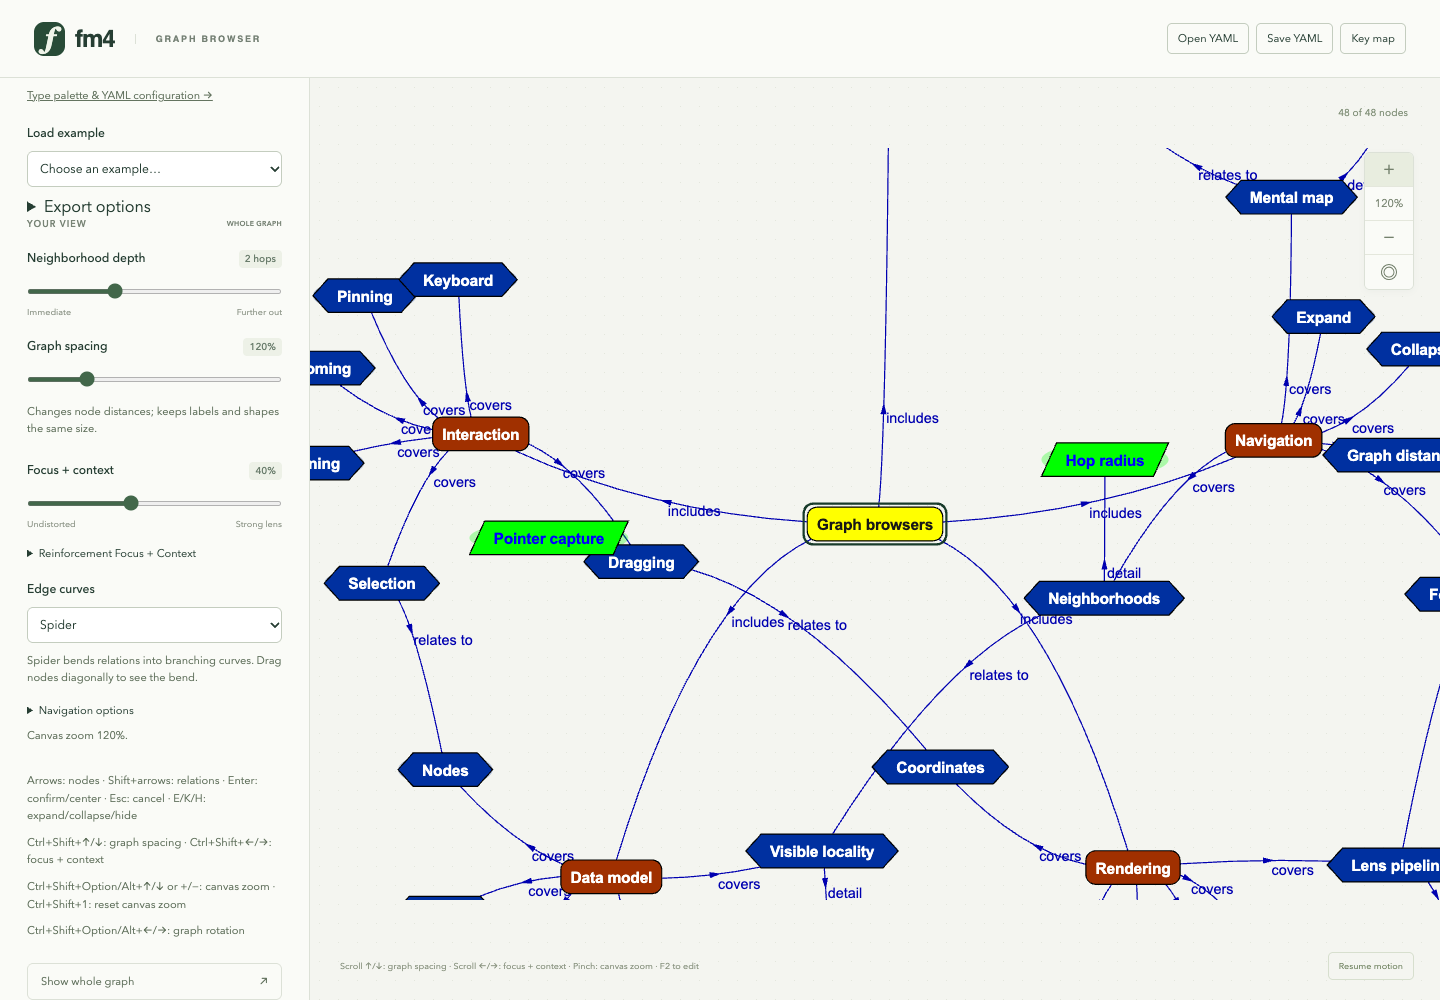
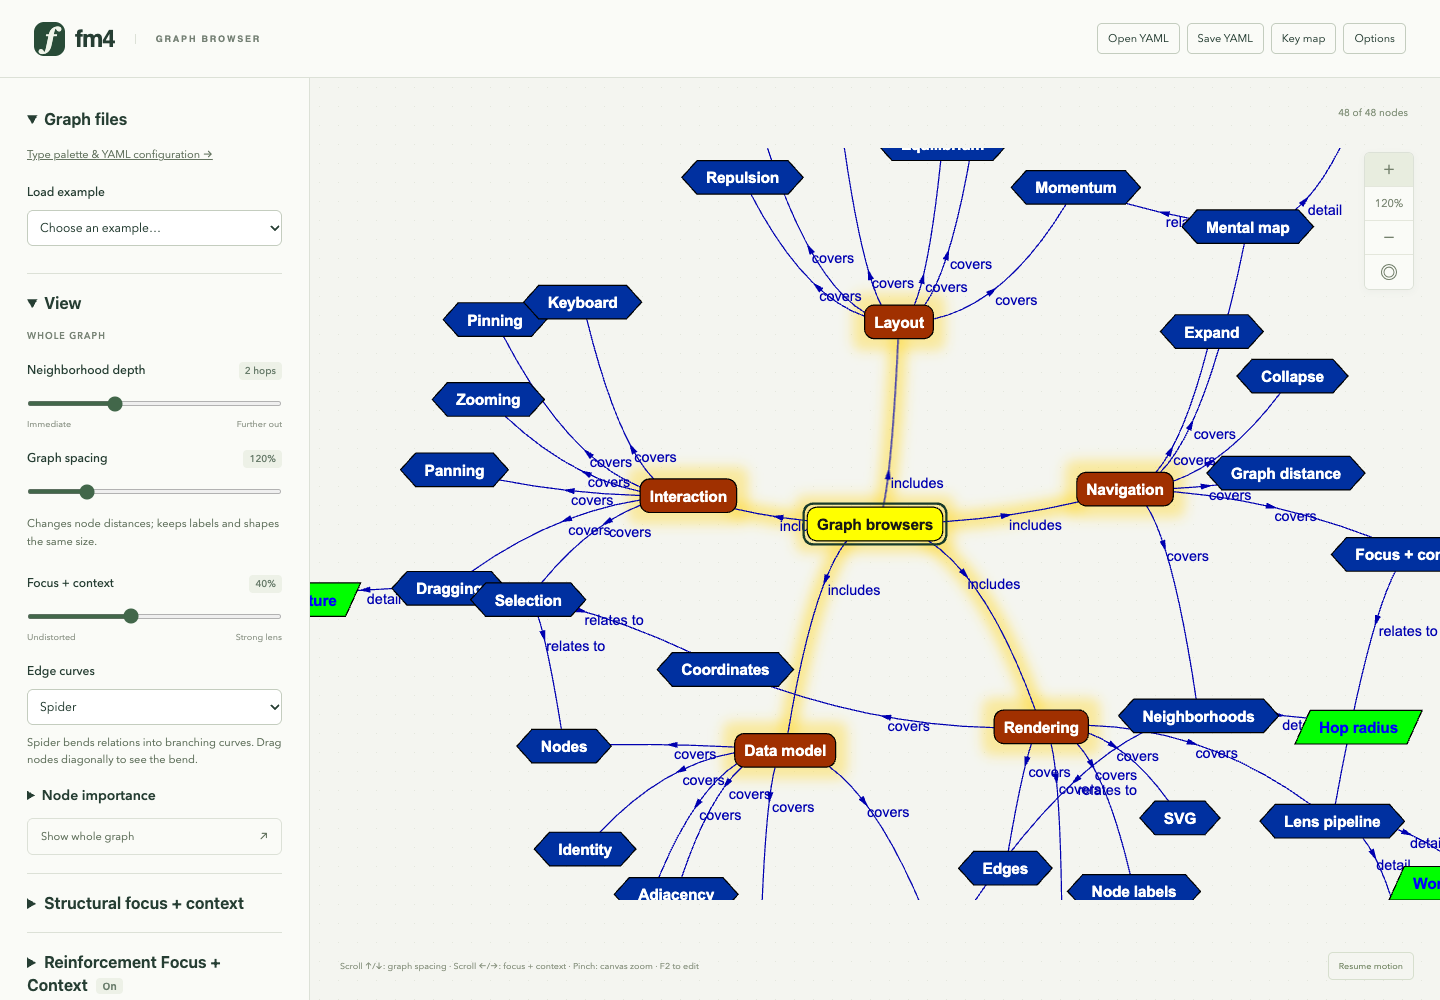
Refresh flipbook and document RFC origins

diff --git a/docs/flipbook/index.html b/docs/flipbook/index.html
@@ -2,7 +2,7 @@
 <html lang="en"><head><meta charset="utf-8"><meta name="viewport" content="width=device-width,initial-scale=1"><title>Freshmind 4 walkthrough</title>
 <style>body{font:16px/1.5 system-ui,sans-serif;margin:0;background:#f4f5f0;color:#263e33}header,main{max-width:1440px;margin:auto;padding:16px}h1{font-size:22px;margin:0}nav{display:flex;align-items:center;gap:12px;flex-wrap:wrap;margin-top:12px}button{font:inherit;padding:5px 14px;cursor:pointer}button:disabled{cursor:default}figure{margin:0 0 30px}figure[hidden]{display:none}img{display:block;max-width:100%;max-height:72vh;width:auto;height:auto;border:1px solid #c4cdbf}h2{font-size:18px}a{color:inherit}button:focus-visible,a:focus-visible{outline:3px solid #6cb08b;outline-offset:3px}</style></head>
 <body><header><h1>Freshmind 4 walkthrough</h1><nav aria-label="Flipbook navigation"><button id="previous" type="button">Previous</button><span id="position" role="status" aria-live="polite"></span><button id="next" type="button">Next</button><a href="README.md">Markdown walkthrough</a></nav></header><main>
-<figure id="browser"><h2>1. Graph browser</h2><img src="01-browser.png" width="1440" height="1000" alt="Graph browser"><figcaption><p>The main browser opens a local neighborhood. Select nodes to inspect their connections; dragging, pinning and neighborhood controls use the same graph model.</p></figcaption></figure>
+<figure id="browser"><h2>1. Graph browser with RFC on the center node</h2><img src="01-browser.png" width="1440" height="1000" alt="Graph browser with RFC on the center node"><figcaption><p>The graph-browser example opens with Reinforcement Focus+Context active on its central Graph browsers node. Yellow halos identify the reinforced center and its five immediate branches; the surrounding graph retains its ordinary connections and forces.</p></figcaption></figure>
 <figure id="neighborhood"><h2>2. Reveal the complete graph</h2><img src="02-neighborhood.png" width="1440" height="1000" alt="Reveal the complete graph"><figcaption><p>Show whole graph reveals stored nodes beyond the current neighborhood. Expansion, collapse and hiding change the visible graph while retaining the complete graph for editing and export.</p></figcaption></figure>
 <figure id="view-controls"><h2>3. Graph spacing, canvas zoom and viewing lens</h2><img src="03-view-controls.png" width="1440" height="1000" alt="Graph spacing, canvas zoom and viewing lens"><figcaption><p>Graph spacing changes node distances. Canvas zoom scales shapes, labels and strokes together. The focus + context slider applies the independent nonlinear viewing lens.</p></figcaption></figure>
 <figure id="key-map"><h2>4. User key map</h2><img src="04-key-map.png" width="1440" height="1000" alt="User key map"><figcaption><p>The help dialog and docs/KEYMAP.md share the same implemented command definitions, including graph spacing, canvas zoom, navigation, editing and file shortcuts.</p></figcaption></figure>
@@ -14,9 +14,15 @@
 <figure id="save-yaml"><h2>10. Save the complete graph as YAML</h2><img src="10-save-yaml.png" width="1440" height="1000" alt="Save the complete graph as YAML"><figcaption><p>Ctrl+Shift+S opens the filename dialog. Saving downloads the complete stored graph, including hidden nodes, with optional layout/view state and embedded or companion type configuration.</p></figcaption></figure>
 <figure id="rfc-baseline"><h2>11. Single-focus comparison: ordinary layout</h2><img src="11-rfc-baseline.png" width="1440" height="1000" alt="Single-focus comparison: ordinary layout"><figcaption><p>The synthetic crowded-star fixture uses a fixed center and fixed context anchors. This is the ordinary TouchGraph layout after 250 batches from the saved initial coordinates; RFC is off. Both comparison views use 200% graph spacing and 100% canvas zoom for readability.</p></figcaption></figure>
 <figure id="rfc-attraction"><h2>12. Single-focus comparison: attraction reinforcement</h2><img src="12-rfc-attraction.png" width="1440" height="1000" alt="Single-focus comparison: attraction reinforcement"><figcaption><p>Reload the identical graph, choose Attraction only and run 250 batches. This earlier preset combines attraction multiplier 3 with angular stiffness 300, without a target-length spring. Soft yellow halos identify the reinforced nodes and relations; semantic graph records remain unchanged.</p></figcaption></figure>
-<figure id="rfc"><h2>13. Single-focus comparison: length-constrained tree</h2><img src="13-rfc.png" width="1440" height="1000" alt="Single-focus comparison: length-constrained tree"><figcaption><p>The default Tree structure preset combines target focal length 120, radial stiffness 1 and angular stiffness 10000. From the same starting graph and after 250 batches, the focal star is more regular. Both stronger angular constraints and the new length spring contribute. RFC halos fade away without a rim; focal-region exclusion remains later work.</p></figcaption></figure>
+<figure id="rfc"><h2>13. Single-focus comparison: length-constrained tree</h2><img src="13-rfc.png" width="1440" height="1000" alt="Single-focus comparison: length-constrained tree"><figcaption><p>The default Tree structure preset combines target focal length 120, radial stiffness 1 and angular stiffness 10000. From the same starting graph and after 250 batches, the focal star is more regular. Both stronger angular constraints and the new length spring contribute. Yellow halos show reinforcement; optional focal-region exclusion is demonstrated separately below.</p></figcaption></figure>
 <figure id="rfc-weighted"><h2>14. Weighted RFC for horizontally extended labels</h2><img src="14-rfc-weighted.png" width="1440" height="1000" alt="Weighted RFC for horizontally extended labels"><figcaption><p>The wide-label fixture uses horizontal coordinate weight 0.25 and vertical weight 1. Equal angles are measured in weighted physical coordinates, permitting a wider focal layout while the viewing lens and both zooms stay independent. Ordinary context springs still compete with reinforcement; the metric alone does not guarantee clear space or eliminate label overlaps.</p></figcaption></figure>
-<figure id="nips"><h2>15. Browse the approved NIPS dataset</h2><img src="15-nips.png" width="1440" height="1000" alt="Browse the approved NIPS dataset"><figcaption><p>NIPS-FM contains 3,777 nodes and 5,257 relations. Opening it starts with a bounded neighborhood; the full graph remains stored for subsequent navigation and export.</p></figcaption></figure>
+<figure id="multiple-foci"><h2>15. Reinforce multiple stored trees</h2><img src="15-multiple-foci.png" width="1440" height="1000" alt="Reinforce multiple stored trees"><figcaption><p>Two saved tree definitions reinforce deeper neighborhoods at the same time. Their context relations remain ordinary graph edges. Stored membership survives YAML export; active RFC centers are temporary view state. Shift+Enter can also add or remove an individual center.</p></figcaption></figure>
+<figure id="clusters"><h2>16. Overlapping clusters and their boundaries</h2><img src="16-clusters.png" width="1440" height="1000" alt="Overlapping clusters and their boundaries"><figcaption><p>RFC can reinforce cyclic clusters as well as trees. These two stored clusters share a member, retain their internal relations and show translucent boundaries. Cluster rigidity controls resistance to deformation; the representative selects the group without becoming a physical anchor.</p></figcaption></figure>
+<figure id="focal-regions"><h2>17. Optional focal-region exclusion</h2><img src="17-focal-regions.png" width="1440" height="1000" alt="Optional focal-region exclusion"><figcaption><p>Dashed physical regions show the space reserved around two reinforced structures. Optional exclusion pushes context and non-shared focal nodes away from those regions while shared members remain exempt from their own regions. The forces are soft; pinned nodes and labels can still overlap.</p></figcaption></figure>
+<figure id="importance"><h2>18. Node importance and exact weight values</h2><img src="18-importance.png" width="1440" height="1000" alt="Node importance and exact weight values"><figcaption><p>Node weight scales body and label size within configured limits. Weight 1 keeps normal size and weight 0 remains visible. Optional values make weights explicit when labels differ in length. Size shows importance; yellow halos independently show RFC participation.</p></figcaption></figure>
+<figure id="structural-view"><h2>19. Combine RFC with structural aggregation</h2><img src="19-structural-view.png" width="1440" height="1000" alt="Combine RFC with structural aggregation"><figcaption><p>The structural focus + context example combines a viewing lens, RFC and reversible Person/Paper leaf aggregation. Six of thirteen nodes remain visible, with seven aggregated leaves counted under their parents. The shared collaborator stays visible because it connects two semantic neighbors. The complete graph remains intact.</p></figcaption></figure>
+<figure id="reveal-detail"><h2>20. Reveal aggregated detail without losing context</h2><img src="20-reveal-detail.png" width="1440" height="1000" alt="Reveal aggregated detail without losing context"><figcaption><p>Select Group Beta and reveal its leaves to restore detail while retaining the current graph, focal center and lens. Nine nodes are now visible. E also reveals a selected parent&#39;s leaves; Reset structural view restores the current neighborhood without deleting semantic data.</p></figcaption></figure>
+<figure id="nips"><h2>21. Browse the approved NIPS dataset</h2><img src="21-nips.png" width="1440" height="1000" alt="Browse the approved NIPS dataset"><figcaption><p>NIPS-FM contains 3,777 nodes and 5,257 relations. Opening it starts with a bounded neighborhood; the full graph remains stored for subsequent navigation and export.</p></figcaption></figure>
 </main><script>
 const slides=[...document.querySelectorAll('figure')],previous=document.querySelector('#previous'),next=document.querySelector('#next');let current=0;
 function show(index){current=Math.max(0,Math.min(slides.length-1,index));slides.forEach((slide,i)=>slide.hidden=i!==current);previous.disabled=current===0;next.disabled=current===slides.length-1;document.querySelector('#position').textContent=(current+1)+' / '+slides.length;history.replaceState(null,'','#'+slides[current].id);}

diff --git a/docs/flipbook/README.md b/docs/flipbook/README.md
@@ -2,13 +2,13 @@
 
 Generated by `just flipbook` from [the tour](../../scripts/flipbook/tour.mjs). Edit the tour to change the steps and captions, then regenerate.
 
-[Open the HTML flipbook](index.html). Screenshots show the production build at 1440 × 1000. Layout is paused for capture; the RFC pair uses identical synthetic initial coordinates and batch counts. The tour uses synthetic graphs, the attributed public Florentine network and the approved Berry/NIPS-FM examples.
+[Open the HTML flipbook](index.html). Screenshots show the production build at 1440 × 1000. Layout is paused for capture; the three single-focus comparisons use identical synthetic initial coordinates and batch counts. The tour includes multiple RFC centers, clusters, focal regions, node importance and reversible structural aggregation, alongside synthetic graphs, the attributed Florentine network and the approved Berry/NIPS-FM examples.
 
-## 1. Graph browser
+## 1. Graph browser with RFC on the center node
 
-![Graph browser](01-browser.png)
+![Graph browser with RFC on the center node](01-browser.png)
 
-The main browser opens a local neighborhood. Select nodes to inspect their connections; dragging, pinning and neighborhood controls use the same graph model.
+The graph-browser example opens with Reinforcement Focus+Context active on its central Graph browsers node. Yellow halos identify the reinforced center and its five immediate branches; the surrounding graph retains its ordinary connections and forces.
 
 ## 2. Reveal the complete graph
 
@@ -80,7 +80,7 @@ Reload the identical graph, choose Attraction only and run 250 batches. This ear
 
 ![Single-focus comparison: length-constrained tree](13-rfc.png)
 
-The default Tree structure preset combines target focal length 120, radial stiffness 1 and angular stiffness 10000. From the same starting graph and after 250 batches, the focal star is more regular. Both stronger angular constraints and the new length spring contribute. RFC halos fade away without a rim; focal-region exclusion remains later work.
+The default Tree structure preset combines target focal length 120, radial stiffness 1 and angular stiffness 10000. From the same starting graph and after 250 batches, the focal star is more regular. Both stronger angular constraints and the new length spring contribute. Yellow halos show reinforcement; optional focal-region exclusion is demonstrated separately below.
 
 ## 14. Weighted RFC for horizontally extended labels
 
@@ -88,8 +88,44 @@ The default Tree structure preset combines target focal length 120, radial stiff
 
 The wide-label fixture uses horizontal coordinate weight 0.25 and vertical weight 1. Equal angles are measured in weighted physical coordinates, permitting a wider focal layout while the viewing lens and both zooms stay independent. Ordinary context springs still compete with reinforcement; the metric alone does not guarantee clear space or eliminate label overlaps.
 
-## 15. Browse the approved NIPS dataset
+## 15. Reinforce multiple stored trees
 
-![Browse the approved NIPS dataset](15-nips.png)
+![Reinforce multiple stored trees](15-multiple-foci.png)
+
+Two saved tree definitions reinforce deeper neighborhoods at the same time. Their context relations remain ordinary graph edges. Stored membership survives YAML export; active RFC centers are temporary view state. Shift+Enter can also add or remove an individual center.
+
+## 16. Overlapping clusters and their boundaries
+
+![Overlapping clusters and their boundaries](16-clusters.png)
+
+RFC can reinforce cyclic clusters as well as trees. These two stored clusters share a member, retain their internal relations and show translucent boundaries. Cluster rigidity controls resistance to deformation; the representative selects the group without becoming a physical anchor.
+
+## 17. Optional focal-region exclusion
+
+![Optional focal-region exclusion](17-focal-regions.png)
+
+Dashed physical regions show the space reserved around two reinforced structures. Optional exclusion pushes context and non-shared focal nodes away from those regions while shared members remain exempt from their own regions. The forces are soft; pinned nodes and labels can still overlap.
+
+## 18. Node importance and exact weight values
+
+![Node importance and exact weight values](18-importance.png)
+
+Node weight scales body and label size within configured limits. Weight 1 keeps normal size and weight 0 remains visible. Optional values make weights explicit when labels differ in length. Size shows importance; yellow halos independently show RFC participation.
+
+## 19. Combine RFC with structural aggregation
+
+![Combine RFC with structural aggregation](19-structural-view.png)
+
+The structural focus + context example combines a viewing lens, RFC and reversible Person/Paper leaf aggregation. Six of thirteen nodes remain visible, with seven aggregated leaves counted under their parents. The shared collaborator stays visible because it connects two semantic neighbors. The complete graph remains intact.
+
+## 20. Reveal aggregated detail without losing context
+
+![Reveal aggregated detail without losing context](20-reveal-detail.png)
+
+Select Group Beta and reveal its leaves to restore detail while retaining the current graph, focal center and lens. Nine nodes are now visible. E also reveals a selected parent's leaves; Reset structural view restores the current neighborhood without deleting semantic data.
+
+## 21. Browse the approved NIPS dataset
+
+![Browse the approved NIPS dataset](21-nips.png)
 
 NIPS-FM contains 3,777 nodes and 5,257 relations. Opening it starts with a bounded neighborhood; the full graph remains stored for subsequent navigation and export.

diff --git a/README.md b/README.md
@@ -38,7 +38,9 @@ Node and relation weights now control added RFC stiffness through bounded import
 
 Porting and re-implementation based on the existing concepts have required only a few hours so far, including code archaeology in the original Java sources.
 
-The Java Freshmind prototype at `../knowceans/knowceans-freshmind-2014/` is the feature reference for labels, editing, navigation, search and file I/O. The [FM 2014 source analysis](docs/fm2014_analysis.md) describes these features, unfinished functionality, dependencies, available LDA source projects and proposed port order. Freshmind 4 reimplements and extends the original Reinforcement Focus+Context idea from [Gregor Heinrich’s 2005 paper](docs/literature/rfc@3ia05compact.pdf), adding explicit focal target lengths, persistent tree/DAG/cluster definitions and reproducible layout comparisons.
+The Java Freshmind prototype at `../knowceans/knowceans-freshmind-2014/` is the feature reference for labels, editing, navigation, search and file I/O. The [FM 2014 source analysis](docs/fm2014_analysis.md) describes these features, unfinished functionality, dependencies, available LDA source projects and proposed port order.
+
+Freshmind 4 reimplements and extends the original Reinforcement Focus+Context idea from [Gregor Heinrich’s 2005 paper](docs/literature/rfc@3ia05compact.pdf). RFC reinforces selected graph neighborhoods while retaining their surrounding context. This implementation adds explicit focal target lengths, persistent tree/DAG/cluster definitions and reproducible layout comparisons.
 
 The [Freshmind feature design](docs/fm_port-design.md) describes the implemented typed/visual models, labeled curves, keyboard navigation, metadata/inline editors and native YAML persistence. The approved `berry` and `nips-fm` examples are converted from the Java reference; other datasets are proprietary and excluded.
 
